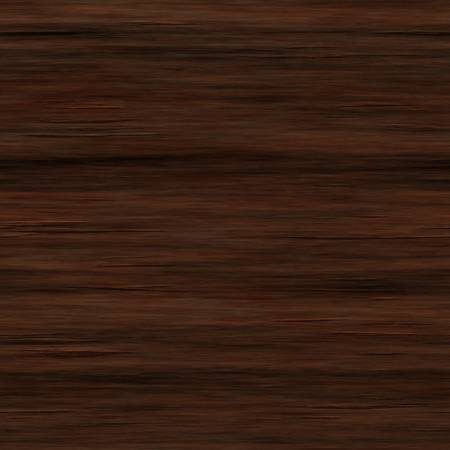
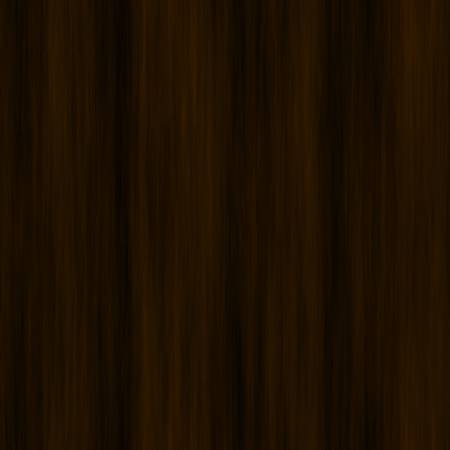
Replacing woods

diff --git a/src/neck/views/NeckStrings.jsx b/src/neck/views/NeckStrings.jsx
@@ -1,7 +1,7 @@
 import React from 'react';
 import { makeStyles, createStyles } from '@material-ui/core/styles';
 import { Grid } from '@material-ui/core/';
-import { GRID_NOTE_LINE_HEIGHT, getInstrumentStrings } from '../../shared';
+import { GRID_NOTE_LINE_HEIGHT, getInstrumentStrings, isGuitarSelected } from '../../shared';
 import { useContextStore } from '../../shared/hooks/useContextStore';
 
 const NeckStrings = () => {
@@ -10,22 +10,32 @@ const NeckStrings = () => {
   const { selectedInstrument } = useContextStore();
   const instrumentStrings = getInstrumentStrings(selectedInstrument);
 
-  return instrumentStrings.map((cord, idx) => (
-    <Grid container style={{ height: GRID_NOTE_LINE_HEIGHT }} key={`${cord}-${idx}`}>
-      <div className={string} />
-    </Grid>
-  ));
+  return instrumentStrings
+    .map((cord, idx) => {
+      const isGuitar = isGuitarSelected(selectedInstrument);
+      const dynamicStringThickness = isGuitar ? 0.8 + (idx * 1.2) / 5 : 1.2;
+      return (
+        <Grid
+          container
+          justify="flex-end"
+          style={{ height: GRID_NOTE_LINE_HEIGHT }}
+          key={`${cord}-${idx}`}
+        >
+          <div className={string} style={{ height: dynamicStringThickness }} />
+        </Grid>
+      );
+    })
+    .reverse();
 };
 
 const useStyles = () =>
   makeStyles(() =>
     createStyles({
       string: {
-        height: 1,
         margin: '20px 0',
         backgroundColor: '#5b6467',
-        width: '100%',
-        backgroundImage: `linear-gradient(315deg, #5b6467 0%, #8b939a 74%)`,
+        width: `calc(100% - 3px)`,
+        boxShadow: '0 6px 6px 1px black',
       },
     })
   );

diff --git a/src/shared/utils.js b/src/shared/utils.js
@@ -4,8 +4,8 @@ import {
   INSTRUMENTS,
   MARK_FRETS_BOARD_UKE,
   MARK_FRETS_BOARD_GUITAR,
-  scaleSteps,
   DEFAULT_INSTRUMENT,
+  scaleSteps,
 } from './defaultValues';
 import { getScale } from './scales';
 
@@ -57,4 +57,12 @@ export const woodNames = ['wood', 'wood4', 'wood3', 'wood5', 'wood7', 'wood8', '
 
 export const getMarkers = (instrument = DEFAULT_INSTRUMENT) => {
   return instrument === DEFAULT_INSTRUMENT ? MARK_FRETS_BOARD_GUITAR : MARK_FRETS_BOARD_UKE;
+};
+
+export const isGuitarSelected = (selectedInstrument) => {
+  return selectedInstrument === 'guitar';
+};
+
+export const isUkeSelected = (selectedInstrument) => {
+  return selectedInstrument === 'ukulele';
 };

diff --git a/src/neck/views/Neck.jsx b/src/neck/views/Neck.jsx
@@ -14,7 +14,7 @@ const Neck = (props) => {
   const classes = useStyles(neckDesignApply, instrumentStrings.length)();
   const { neckContainer, containerFrets, containerStrings, fret } = classes;
 
-  const renderFret = () => (
+  const renderFret = (idx) => (
     <React.Fragment>
       <div className={fret} />
     </React.Fragment>
@@ -28,7 +28,7 @@ const Neck = (props) => {
           .map((_, idx) => {
             return (
               <React.Fragment>
-                {renderFret()}
+                {renderFret(idx)}
                 <GridNotesCol
                   index={idx}
                   showFrets={true}
